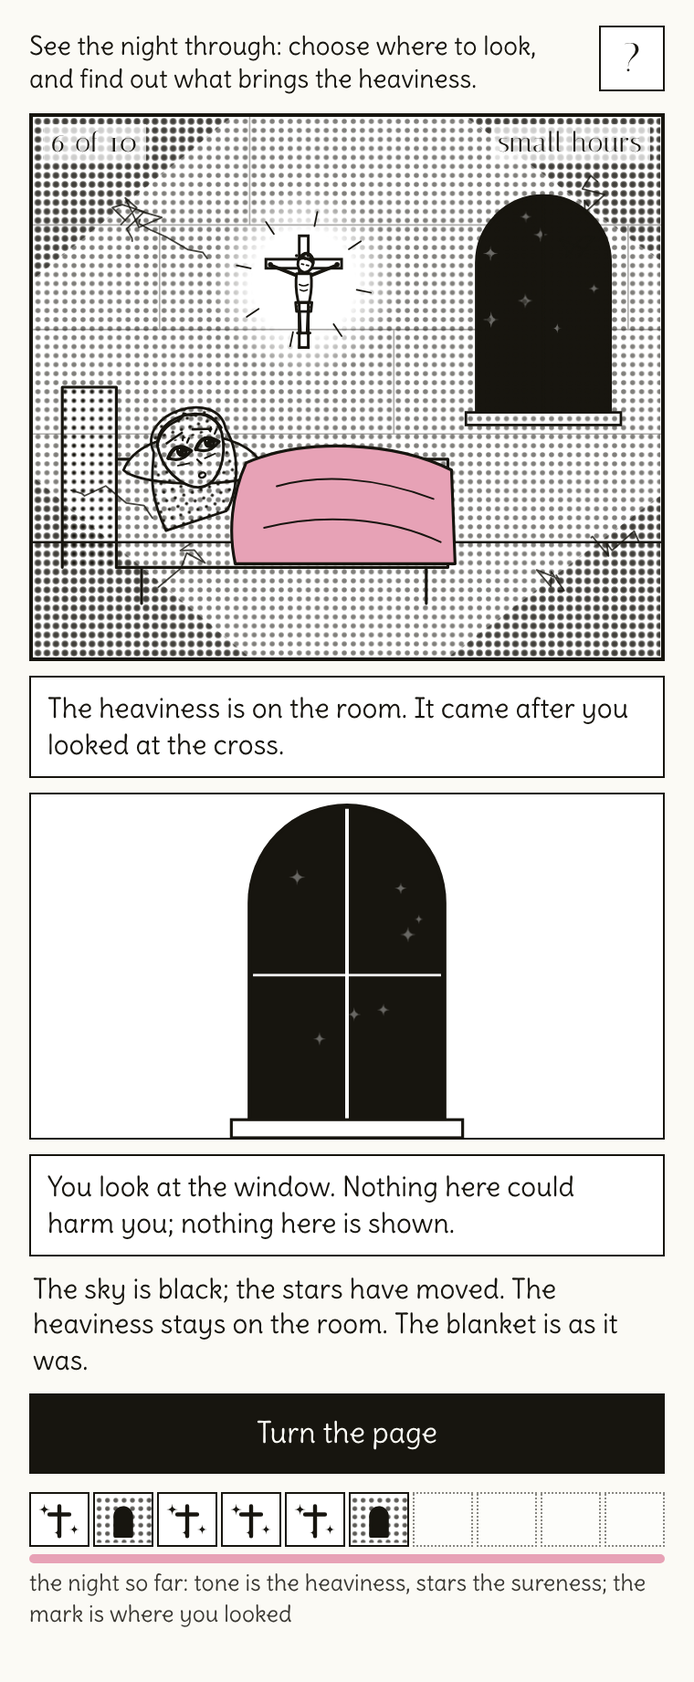
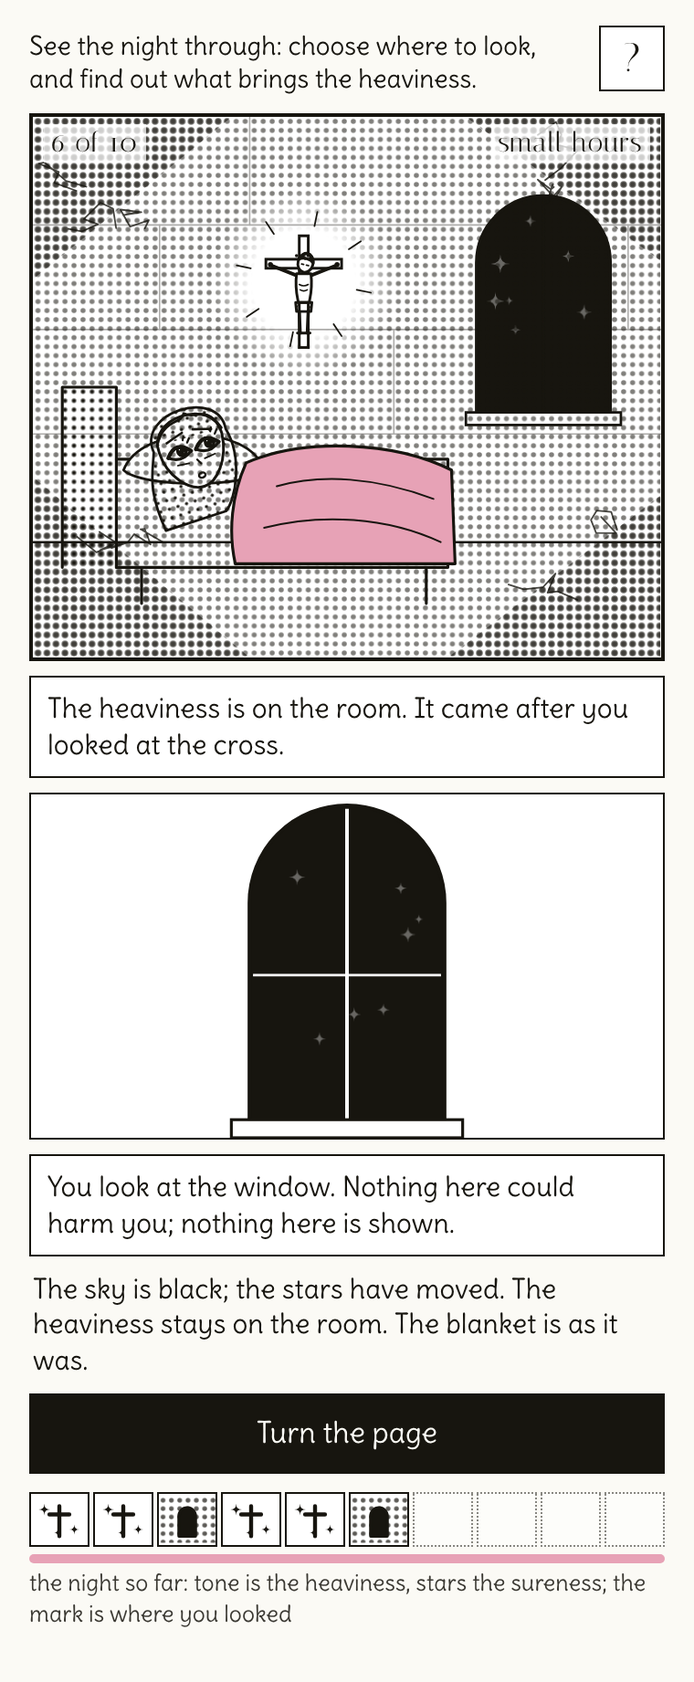
Julian's Window, revision 2: the heaviness named, the morning resolved, the cheer past the drying
The verdict's "It came after..." names the heaviness. Morning opens with "You did not die" (ch. iii, viii), which page one set up and the end never resolved. The change of cheer now needs the drying seen (ch. xxi, "unto the last point"), so the sights climb to the drying and the cheer is the turn past it, while the weather stays flat; "What that means" says in words that the heaviness has no climb and that this is the point. Calibration 34 checks; four scripted nights; memo §21.

Claude-Session: https://claude.ai/code/session_018niUhxL1598XkZ1naDgFgY

diff --git a/julian/julians-window.html b/julian/julians-window.html
@@ -130,6 +130,7 @@ h2 { font-family: 'Italiana', serif; font-weight: 400; font-size: 28px; line-hei
 <section id="end" class="screen">
   <h2 id="endTitle">Morning</h2>
   <p class="sub" id="nightNo"></p>
+  <p class="cap plain" id="vLived"></p>
   <div class="verd">
     <h3>What you did</h3><p class="cap plain" id="vDid"></p>
     <h3>What Julian says</h3><p class="cap plain" id="vSays"></p>
@@ -151,7 +152,7 @@ h2 { font-family: 'Italiana', serif; font-weight: 400; font-size: 28px; line-hei
   <p><b>See the night through. Each time, choose where to look — the cross, the window, or within — and find out what brings the heaviness.</b></p>
   <p>The picture is one room: your bed on the left with you in it under a rose blanket, a cross on the wall in front of you, a window on the right. The night has ten beats, one for each sight at the cross, so no night shows everything; the small label at the top right of the picture gives the hour, and the sky in the window changes with it.</p>
   <p><b>The weather.</b> Sometimes the room is light, with stars and petals over it: that is a sureness. Sometimes a heavy dot-tone lies over everything and scribbles creep in at the edges: that is the heaviness. The line under the picture says which it is now, and, when it has just changed, what you looked at just before. <b>The blanket</b> is how you are kept. It is the one thing in colour.</p>
-  <p><b>Looking.</b> Each beat, tap a place: the cross, the window, or you yourself (within), in the picture or on the three panels under it. Your eyes turn there and the panel says what looking there is. Then tap <b>Look</b>. <b>The cross</b> shows the next sight of the Passion; in the heaviness the same sight is hard to look at. <b>The window</b> shows the sky and nothing else; nothing there can harm you, and nothing is shown. <b>Within</b> asks a question and gets an answer, one per beat, in order; in the heaviness the first question is what brought it.</p>
+  <p><b>Looking.</b> Each beat, tap a place: the cross, the window, or you yourself (within), in the picture or on the three panels under it. Your eyes turn there and the panel says what looking there is. Then tap <b>Look</b>. <b>The cross</b> shows the next sight of the Passion, and the sights climb, to the drying and past it; in the heaviness the same sight is hard to look at. Only past the drying, when the heaviness goes while you are at the cross, does the cheer change. <b>The window</b> shows the sky and nothing else; nothing there can harm you, and nothing is shown. <b>Within</b> asks a question and gets an answer, one per beat, in order; in the heaviness the first question is what brought it.</p>
   <p><b>After a look</b> the game says in its own words what you did and what came of it, then His words in a round balloon and yours in a dashed one, then what the heaviness did and what that means. <b>Turn the page</b> starts the next beat. Nothing carries over: every beat starts with your eyes on nothing.</p>
   <p><b>The strip</b> along the bottom is the night so far: a small frame per beat, toned for the heaviness, starred for the sureness, with a mark for where you looked. The rose line under it is the blanket.</p>
   <p><b>Morning.</b> The strip is shown whole, and then three things in words: what you did, what Julian says, and what that means. There is no score. <b>Another night</b> draws a new night: the weather will come and go on a different schedule, and you can try the other ways of looking.</p>
@@ -165,7 +166,7 @@ h2 { font-family: 'Italiana', serif; font-weight: 400; font-size: 28px; line-hei
 <p>In the Seventh Shewing (ch. xv) Julian is filled with sureness, then "turned and left to myself in heaviness", then comforted, "now that one, and now that other, divers times — I suppose about twenty times". She checks the obvious cause and rules it out: "in this time I sinned not wherefore I should be left to myself"; "also I deserved not to have this blessed feeling." She concludes that the swing is given freely, that "He keepeth us even alike secure in woe and in weal", and that we should not "follow the feelings of pain in sorrow and mourning for them, but ... suddenly pass over." The game is that night: the heaviness comes and goes on a schedule drawn before your first look, it follows nothing you do, and the blanket is the same in every panel.</p>
 <p>Where she looks is her one act all night, and the sights are the text's, in its order: the garland bleeding (ch. iv), the drops like pellets, herring scales and rain off the eaves (vii), the face half covered and "seeking is as good as beholding" (x), the scourging (xii), the laugh (xiii), the drying and "I thirst" (xvi–xvii), "Look up to Heaven" and "Nay; I may not" (xix), the change of cheer with "no time between" (xxi), "Art thou well pleased?" (xxii), the side (xxiv), His mother (xxv), "It is I" (xxvi). Within: the hazelnut (v), "sin is no deed" (xi), "Is any pain like this?" (xvii), the check of the cause (xv), "It behoved that there should be sin; but all shall be well" (xxvii), "I have made well the most harm" (xxix), and the hidden part (xxx, xxxii).</p>
 <h3>Mechanism: a toy</h3>
-<p>The game runs a model built to illustrate the text's argument, not a model the text contains. <b>It demonstrates</b> that a night can be played in which the feeling swings on its own clock, follows nothing the player does, and leaves the keeping untouched; and that the sights can be reached in the text's order by looking. <b>It assumes</b> the toy: ten beats, one per sight at the cross, so that no night shows everything; the twenty swings of one shewing compressed to about five or six across the night, on a seeded random schedule with the first heaviness forced by the third beat; a window that carries "Look up to Heaven" and the hour; the horror "away from the Cross" (ch. iii) drawn as scribbles at the edges; a sight dreadful in heaviness and sweet in sureness where ch. vii says one sight was both at once; the change of cheer tied to being at the cross when the weather turns; the blanket for "He is our clothing" (ch. v); the questions asked when the player chooses rather than when He shows. <b>The text establishes</b> an argument from a vision, not a finding: that the swing was not caused by her sin, that the keeping is constant, that the right act is to pass over. Under this game's assumptions those three hold by construction; the game is a way of meeting them, not evidence for them.</p>
+<p>The game runs a model built to illustrate the text's argument, not a model the text contains. <b>It demonstrates</b> that a night can be played in which the feeling swings on its own clock, follows nothing the player does, and leaves the keeping untouched; and that the sights can be reached in the text's order by looking. <b>It assumes</b> the toy: ten beats, one per sight at the cross, so that no night shows everything; the twenty swings of one shewing compressed to about five or six across the night, on a seeded random schedule with the first heaviness forced by the third beat; a window that carries "Look up to Heaven" and the hour; the horror "away from the Cross" (ch. iii) drawn as scribbles at the edges; a sight dreadful in heaviness and sweet in sureness where ch. vii says one sight was both at once; the change of cheer tied to being at the cross when the weather turns, and only past the drying (ch. xxi); the morning's "you did not die" from ch. iii and viii, moved to the end of the night; the blanket for "He is our clothing" (ch. v); the questions asked when the player chooses rather than when He shows. <b>The text establishes</b> an argument from a vision, not a finding: that the swing was not caused by her sin, that the keeping is constant, that the right act is to pass over. Under this game's assumptions those three hold by construction; the game is a way of meeting them, not evidence for them.</p>
 <p>Every number and every line the game says sits in a config block at the top of <code>mechanism.js</code>, tagged with its chapter or marked as our choice. The weather is drawn from the night's number, shown on the morning page, so a night can be replayed.</p>
 <h3>Game built from this text</h3>
 <p>Julian of Norwich, <i>Revelations of Divine Love</i>, tr. Grace Warrack (London: Methuen, 1901), chapters i–xxxii. Game built from this text; the text is the authority where the two disagree. Her words appear in balloons as the text gives them, lightly shortened; the game's own voice is in the boxes. Steffen Huck, 2026, with Claude under the <a href="https://github.com/steffenhuck/paper-to-game">paper-to-game</a> skill. Type: Delius (Natalia Raices) and Italiana (Santiago Orozco), both under the SIL Open Font License.</p>
@@ -191,6 +192,7 @@ h2 { font-family: 'Italiana', serif; font-weight: 400; font-size: 28px; line-hei
     keeping: 1,         // ch. xv: "He keepeth us even alike secure in woe and in weal" — constant by construction, never read by the weather
     actsAffectWeather: 0, // ch. xv: "freely our Lord giveth when He will" — the schedule is drawn from the seed before the first look; 0 = no effect
     cheerNeedsCross: 1, // ch. xxi: "willingly abiding in the same Cross ... unto the last point, suddenly He shall change His Cheer" — our tie
+    cheerAfterDrying: 1, // ch. xxi: the cheer changes at the point of death, after the drying (ch. xvi–xvii, "the most pain, and the last"); before it a lift at the cross is only a lift
     profferAfterDrying: 1, // ch. xix: "Look up to Heaven" is offered while she beholds the drying (ch. xvi–xvii); our tie to the first dark after it
     hours: ['deep night', 'deep night', 'night', 'night', 'small hours', 'small hours', 'before dawn', 'before dawn', 'first light', 'morning'] // our choice: the window's clock; the text gives no hour in these chapters
   };
@@ -335,6 +337,8 @@ h2 { font-family: 'Italiana', serif; font-weight: 400; font-size: 28px; line-hei
     kept: 'The blanket never changed: "He keepeth us even alike secure in woe and in weal."',
     passover: 'And: "it is not God’s will that we follow the feelings of pain in sorrow and mourning for them, but that we suddenly pass over."',
     means: 'The dark that comes over you is not a message about you. Between the dark and the light there is no time. What you saw, you saw by staying; what you sought and did not see counted the same.',
+    climb: 'The heaviness had no climb: the last was no worse than the first, and it led nowhere. That is the point, not a fault of the night. What climbed was the sight at the cross, from the garland to the drying, and only past the drying does the cheer change.',
+    lived: 'You did not die. The pain went out of you all at once, as it had come, and you took it that the night was shown for those who live.',
     sentence: 'All shall be well, and all shall be well, and all manner of thing shall be well.',
     morningDark: 'The heaviness was on the room when the morning came. It is passing: "pain is passing and shall be brought to nought."'
   };
@@ -399,7 +403,7 @@ h2 { font-family: 'Italiana', serif; font-weight: 400; font-size: 28px; line-hei
       if (s.his) r.balloons.push({ who: 'his', text: s.his });
       if (s.hers) r.balloons.push({ who: 'hers', text: s.hers });
       if (state.profferOpen) { r.nay = true; r.caption = NAY.line + ' ' + r.caption; r.line = r.line + ' ' + NAY.after; r.balloons.unshift({ who: 'hers', text: NAY.hers }); state.proffered = true; }
-      if (CONFIG.cheerNeedsCross && !w && next === true) {
+      if (CONFIG.cheerNeedsCross && !w && next === true && (!CONFIG.cheerAfterDrying || state.dryingSeen)) {
         r.cheer = true; state.cheers++;
         var c = state.cheers === 1 ? CHEER : CHEER_AGAIN;
         r.cheerCaption = c.caption; r.balloons.push({ who: 'his', text: c.his }); if (c.hers) r.balloons.push({ who: 'hers', text: c.hers });
@@ -425,8 +429,8 @@ h2 { font-family: 'Italiana', serif; font-weight: 400; font-size: 28px; line-hei
 
   // ---- the verdict, in words ---------------------------------------------------------------------------------------
   var NUM = ['no', 'one', 'two', 'three', 'four', 'five', 'six', 'seven', 'eight', 'nine', 'ten', 'eleven', 'twelve', 'thirteen', 'fourteen', 'fifteen', 'sixteen'];
-  function times(n) { return n === 0 ? 'not once' : n === 2 ? 'twice' : NUM[n] + (n === 1 ? ' time' : ' times'); }
-  function places(obj) { return Object.keys(obj).map(function (p) { return WEATHER.after[p].replace('you looked at ', '').replace('you looked within', 'looking within') + ' ' + times(obj[p]); }); }
+  function times(n) { return n === 0 ? 'not once' : n === 1 ? 'once' : n === 2 ? 'twice' : NUM[n] + ' times'; }
+  function places(obj) { return Object.keys(obj).map(function (p) { return times(obj[p]) + ' ' + WEATHER.after[p].replace('you looked at ', '').replace('you looked within', 'looking within'); }); }
   function listNames(a) { if (!a.length) return 'nothing'; if (a.length === 1) return a[0]; return a.slice(0, -1).join(', ') + ' and ' + a[a.length - 1]; }
 
   function verdict(state) {
@@ -449,10 +453,14 @@ h2 { font-family: 'Italiana', serif; font-weight: 400; font-size: 28px; line-hei
     var did = 'The heaviness lay on the room ' + times(spells) + (spells !== darks ? ' (' + times(darks).replace(' times', ' beats').replace(' time', ' beat') + ' in all)' : '') + '. In it you stayed at the cross ' + times(stay) + ', went to the window ' + times(win) + ', and looked within ' + times(inn) + '.'
       + (seen.length ? ' At the cross you saw ' + listNames(seen) + (unseen.length ? '; you did not reach ' + listNames(unseen) : '') + '.' : ' At the cross you saw nothing; the ten sights went unseen.')
       + (asked.length ? ' Within, you asked ' + listNames(asked) + '.' : ' Within, you asked nothing.')
-      + (cheers ? ' The cheer changed for you ' + times(cheers) + ', with no time between.' : ' You were never at the cross when the heaviness went, so you never saw the cheer change.');
-    var says = (onsets.length ? 'It came ' + listNames(places(after)) + ': ' + (afterNames.length > 1 ? 'after everything, and so after nothing you did' : 'after one thing, as it would have come after any other') + '. ' : 'It was on the room from the start; nothing you did brought it. ')
+      + (cheers ? ' The cheer changed for you ' + times(cheers) + ', with no time between.' : (state.dryingSeen ? ' You were not at the cross when the heaviness went after the drying, so you never saw the cheer change.' : ' You never reached the drying, past which the cheer changes.'));
+    var onePlace = afterNames.length === 1 ? WEATHER.after[onsets[0]].replace('you looked at ', '').replace('you looked within', 'looking within') : '';
+    var says = (onsets.length === 0 ? 'The heaviness was on the room from the start; nothing you did brought it. '
+      : onsets.length === 1 ? 'The heaviness came once, ' + onePlace + '; it would have come after anything else. '
+      : afterNames.length === 1 ? 'The heaviness came ' + times(onsets.length) + ', each time ' + onePlace + '; after one thing, as it would have come after any other. '
+      : 'The heaviness came ' + times(onsets.length) + ': ' + listNames(places(after)) + '; after everything, and so after nothing you did. ')
       + VERDICT.checked + ' ' + VERDICT.kept + ' ' + VERDICT.passover;
-    return { did: did, says: says, means: VERDICT.means + (causeInDark ? '' : ' You never looked within for what brought it; Julian did, and found nothing.'), sentence: VERDICT.sentence,
+    return { did: did, says: says, means: VERDICT.means + (causeInDark ? '' : ' You never looked within for what brought it; Julian did, and found nothing.') + ' ' + VERDICT.climb, lived: VERDICT.lived, sentence: VERDICT.sentence,
              morning: w[n - 1] ? '' : VERDICT.morningDark, counts: { darks: darks, spells: spells, stay: stay, window: win, within: inn, cheers: cheers, onsets: onsets, lifts: lifts, seen: seen.length, asked: asked.length } };
   }
 
@@ -755,7 +763,7 @@ var Art = (function () {
     var v = J.verdict(state);
     $('nightNo').textContent = 'Night ' + state.seed + '. ' + (state.weather[J.CONFIG.beats - 1] ? 'The room is light.' : 'The heaviness is on the room.');
     $('recordGrid').innerHTML = state.record.map(function (r) { return '<div class="fr">' + Art.frame(r) + '</div>'; }).join('');
-    $('vDid').textContent = v.did; $('vSays').textContent = v.says; $('vMeans').textContent = v.means; $('vSentence').textContent = v.sentence;
+    $('vLived').textContent = v.lived; $('vDid').textContent = v.did; $('vSays').textContent = v.says; $('vMeans').textContent = v.means; $('vSentence').textContent = v.sentence;
     $('vMorning').style.display = v.morning ? '' : 'none'; $('vMorning').textContent = v.morning;
     show('end');
   }

diff --git a/julian/mechanism.js b/julian/mechanism.js
@@ -15,6 +15,7 @@
     keeping: 1,         // ch. xv: "He keepeth us even alike secure in woe and in weal" — constant by construction, never read by the weather
     actsAffectWeather: 0, // ch. xv: "freely our Lord giveth when He will" — the schedule is drawn from the seed before the first look; 0 = no effect
     cheerNeedsCross: 1, // ch. xxi: "willingly abiding in the same Cross ... unto the last point, suddenly He shall change His Cheer" — our tie
+    cheerAfterDrying: 1, // ch. xxi: the cheer changes at the point of death, after the drying (ch. xvi–xvii, "the most pain, and the last"); before it a lift at the cross is only a lift
     profferAfterDrying: 1, // ch. xix: "Look up to Heaven" is offered while she beholds the drying (ch. xvi–xvii); our tie to the first dark after it
     hours: ['deep night', 'deep night', 'night', 'night', 'small hours', 'small hours', 'before dawn', 'before dawn', 'first light', 'morning'] // our choice: the window's clock; the text gives no hour in these chapters
   };
@@ -159,6 +160,8 @@
     kept: 'The blanket never changed: "He keepeth us even alike secure in woe and in weal."',
     passover: 'And: "it is not God’s will that we follow the feelings of pain in sorrow and mourning for them, but that we suddenly pass over."',
     means: 'The dark that comes over you is not a message about you. Between the dark and the light there is no time. What you saw, you saw by staying; what you sought and did not see counted the same.',
+    climb: 'The heaviness had no climb: the last was no worse than the first, and it led nowhere. That is the point, not a fault of the night. What climbed was the sight at the cross, from the garland to the drying, and only past the drying does the cheer change.',
+    lived: 'You did not die. The pain went out of you all at once, as it had come, and you took it that the night was shown for those who live.',
     sentence: 'All shall be well, and all shall be well, and all manner of thing shall be well.',
     morningDark: 'The heaviness was on the room when the morning came. It is passing: "pain is passing and shall be brought to nought."'
   };
@@ -223,7 +226,7 @@
       if (s.his) r.balloons.push({ who: 'his', text: s.his });
       if (s.hers) r.balloons.push({ who: 'hers', text: s.hers });
       if (state.profferOpen) { r.nay = true; r.caption = NAY.line + ' ' + r.caption; r.line = r.line + ' ' + NAY.after; r.balloons.unshift({ who: 'hers', text: NAY.hers }); state.proffered = true; }
-      if (CONFIG.cheerNeedsCross && !w && next === true) {
+      if (CONFIG.cheerNeedsCross && !w && next === true && (!CONFIG.cheerAfterDrying || state.dryingSeen)) {
         r.cheer = true; state.cheers++;
         var c = state.cheers === 1 ? CHEER : CHEER_AGAIN;
         r.cheerCaption = c.caption; r.balloons.push({ who: 'his', text: c.his }); if (c.hers) r.balloons.push({ who: 'hers', text: c.hers });
@@ -249,8 +252,8 @@
 
   // ---- the verdict, in words ---------------------------------------------------------------------------------------
   var NUM = ['no', 'one', 'two', 'three', 'four', 'five', 'six', 'seven', 'eight', 'nine', 'ten', 'eleven', 'twelve', 'thirteen', 'fourteen', 'fifteen', 'sixteen'];
-  function times(n) { return n === 0 ? 'not once' : n === 2 ? 'twice' : NUM[n] + (n === 1 ? ' time' : ' times'); }
-  function places(obj) { return Object.keys(obj).map(function (p) { return WEATHER.after[p].replace('you looked at ', '').replace('you looked within', 'looking within') + ' ' + times(obj[p]); }); }
+  function times(n) { return n === 0 ? 'not once' : n === 1 ? 'once' : n === 2 ? 'twice' : NUM[n] + ' times'; }
+  function places(obj) { return Object.keys(obj).map(function (p) { return times(obj[p]) + ' ' + WEATHER.after[p].replace('you looked at ', '').replace('you looked within', 'looking within'); }); }
   function listNames(a) { if (!a.length) return 'nothing'; if (a.length === 1) return a[0]; return a.slice(0, -1).join(', ') + ' and ' + a[a.length - 1]; }
 
   function verdict(state) {
@@ -273,10 +276,14 @@
     var did = 'The heaviness lay on the room ' + times(spells) + (spells !== darks ? ' (' + times(darks).replace(' times', ' beats').replace(' time', ' beat') + ' in all)' : '') + '. In it you stayed at the cross ' + times(stay) + ', went to the window ' + times(win) + ', and looked within ' + times(inn) + '.'
       + (seen.length ? ' At the cross you saw ' + listNames(seen) + (unseen.length ? '; you did not reach ' + listNames(unseen) : '') + '.' : ' At the cross you saw nothing; the ten sights went unseen.')
       + (asked.length ? ' Within, you asked ' + listNames(asked) + '.' : ' Within, you asked nothing.')
-      + (cheers ? ' The cheer changed for you ' + times(cheers) + ', with no time between.' : ' You were never at the cross when the heaviness went, so you never saw the cheer change.');
-    var says = (onsets.length ? 'It came ' + listNames(places(after)) + ': ' + (afterNames.length > 1 ? 'after everything, and so after nothing you did' : 'after one thing, as it would have come after any other') + '. ' : 'It was on the room from the start; nothing you did brought it. ')
+      + (cheers ? ' The cheer changed for you ' + times(cheers) + ', with no time between.' : (state.dryingSeen ? ' You were not at the cross when the heaviness went after the drying, so you never saw the cheer change.' : ' You never reached the drying, past which the cheer changes.'));
+    var onePlace = afterNames.length === 1 ? WEATHER.after[onsets[0]].replace('you looked at ', '').replace('you looked within', 'looking within') : '';
+    var says = (onsets.length === 0 ? 'The heaviness was on the room from the start; nothing you did brought it. '
+      : onsets.length === 1 ? 'The heaviness came once, ' + onePlace + '; it would have come after anything else. '
+      : afterNames.length === 1 ? 'The heaviness came ' + times(onsets.length) + ', each time ' + onePlace + '; after one thing, as it would have come after any other. '
+      : 'The heaviness came ' + times(onsets.length) + ': ' + listNames(places(after)) + '; after everything, and so after nothing you did. ')
       + VERDICT.checked + ' ' + VERDICT.kept + ' ' + VERDICT.passover;
-    return { did: did, says: says, means: VERDICT.means + (causeInDark ? '' : ' You never looked within for what brought it; Julian did, and found nothing.'), sentence: VERDICT.sentence,
+    return { did: did, says: says, means: VERDICT.means + (causeInDark ? '' : ' You never looked within for what brought it; Julian did, and found nothing.') + ' ' + VERDICT.climb, lived: VERDICT.lived, sentence: VERDICT.sentence,
              morning: w[n - 1] ? '' : VERDICT.morningDark, counts: { darks: darks, spells: spells, stay: stay, window: win, within: inn, cheers: cheers, onsets: onsets, lifts: lifts, seen: seen.length, asked: asked.length } };
   }
 

diff --git a/julian/calibration.js b/julian/calibration.js
@@ -61,14 +61,16 @@ check('the cause is asked at most once a night and only as the first within-look
 }));
 check('the window never shows a sight and always names the sky and the blanket (ch. xix: "nothing betwixt the Cross and Heaven that might have harmed me")', play(3, POLICIES.window).record.every(function (r) { return r.sight === 'sky' && /sky/.test(r.line) && /blanket/.test(r.line); }));
 
-// 4. The change of cheer (ch. xxi): fires exactly when the player is at the cross in heaviness and the next beat is sureness; never otherwise.
-check('cheer fires iff at the cross, in heaviness, with sureness next', SEEDS.every(function (s) {
-  var st = play(s, POLICIES.random);
-  return st.record.every(function (r, t) { var should = r.place === 'cross' && !st.weather[t] && t + 1 < C.beats && st.weather[t + 1]; return r.cheer === should; });
+// 4. The change of cheer (ch. xxi): fires exactly when the player is at the cross in heaviness, the drying has been seen, and the next beat is sureness; never otherwise.
+check('cheer fires iff at the cross, in heaviness, past the drying, with sureness next', SEEDS.every(function (s) {
+  var st = play(s, POLICIES.random), dry = false;
+  return st.record.every(function (r, t) { if (r.sight === 'drying') dry = true; var should = r.place === 'cross' && !st.weather[t] && dry && t + 1 < C.beats && st.weather[t + 1]; return r.cheer === should; });
 }));
-check('a player who flees to the window in every dark never sees the cheer; one who stays sees it on every lift', SEEDS.slice(0, 100).every(function (s) {
-  return play(s, POLICIES.flee).record.every(function (r) { return !r.cheer; }) && (function () { var st = play(s, POLICIES.stay); var lifts = 0; for (var t = 1; t < C.beats; t++) if (st.weather[t] && !st.weather[t - 1]) lifts++; return st.record.filter(function (r) { return r.cheer; }).length === lifts; })();
+check('no cheer before the drying, on any night, under any policy', SEEDS.slice(0, 100).every(function (s) { return Object.keys(POLICIES).every(function (p) { var st = play(s, POLICIES[p]), dry = false; return st.record.every(function (r) { if (r.sight === 'drying') dry = true; return !r.cheer || dry; }); }); }));
+check('a player who flees to the window in every dark never sees the cheer; one at the cross all night sees it on every lift past the drying', SEEDS.slice(0, 100).every(function (s) {
+  return play(s, POLICIES.flee).record.every(function (r) { return !r.cheer; }) && (function () { var st = play(s, POLICIES.cross); var lifts = 0; for (var t = 1; t < C.beats; t++) if (st.weather[t] && !st.weather[t - 1] && t - 1 >= 5) lifts++; return st.record.filter(function (r) { return r.cheer; }).length === lifts; })();
 }));
+check('a player at the cross all night reaches the drying on beat 6 and sees the cheer on most nights', (function () { var k = 0; SEEDS.forEach(function (s) { var st = play(s, POLICIES.cross); if (st.record[5].sight === 'drying' && st.record.some(function (r) { return r.cheer; })) k++; }); return k / SEEDS.length >= 0.6; })());
 
 // 5. "Look up to Heaven" (ch. xix): offered once, in the first heaviness after the drying has been seen; the cross then answers "Nay".
 check('the proffer comes once, after the drying, in heaviness; taking the cross answers Nay, taking the window looks up', SEEDS.slice(0, 200).every(function (s) {
@@ -84,9 +86,10 @@ check('the proffer comes once, after the drying, in heaviness; taking the cross 
 
 // 6. The verdict is words, not a tally; it reads the record right on the boundary strategies.
 var vFlee = J.verdict(play(5, POLICIES.flee)), vStay = J.verdict(play(5, POLICIES.stay)), vJul = J.verdict(play(5, POLICIES.julian));
-check('verdict has no digits anywhere', [vFlee, vStay, vJul].every(function (v) { return !/\d/.test(v.did + v.says + v.means + v.sentence + v.morning); }));
-check('flee: never at the cross in the dark, no cheer', vFlee.counts.stay === 0 && vFlee.counts.cheers === 0 && /never at the cross when the heaviness went/.test(vFlee.did));
-check('stay: at the cross on every dark beat; cheer on every lift', vStay.counts.stay === vStay.counts.darks && vStay.counts.cheers === vStay.counts.lifts.length);
+check('verdict has no digits anywhere', [vFlee, vStay, vJul].every(function (v) { return !/\d/.test(v.did + v.says + v.means + v.sentence + v.morning + v.lived); }));
+check('the verdict names the heaviness, says she lived, and says the heaviness had no climb', [vFlee, vStay, vJul].every(function (v) { return /^The heaviness/.test(v.says) && /did not die/.test(v.lived) && /no climb/.test(v.means); }));
+check('flee: never at the cross in the dark, no cheer', vFlee.counts.stay === 0 && vFlee.counts.cheers === 0 && /never saw the cheer change|never reached the drying/.test(vFlee.did));
+check('stay: at the cross on every dark beat', vStay.counts.stay === vStay.counts.darks);
 check('julian: the cause was checked once, in the dark; the verdict does not scold', vJul.counts.within === 1 && !/never looked within/.test(vJul.means));
 check('the verdict ends with her sentence (ch. xxvii)', vJul.sentence === 'All shall be well, and all shall be well, and all manner of thing shall be well.');
 check('the onsets named in the verdict are the places looked at just before each heaviness', SEEDS.slice(0, 100).every(function (s) {

diff --git a/julian/about.html b/julian/about.html
@@ -3,7 +3,7 @@
 <p>In the Seventh Shewing (ch. xv) Julian is filled with sureness, then "turned and left to myself in heaviness", then comforted, "now that one, and now that other, divers times — I suppose about twenty times". She checks the obvious cause and rules it out: "in this time I sinned not wherefore I should be left to myself"; "also I deserved not to have this blessed feeling." She concludes that the swing is given freely, that "He keepeth us even alike secure in woe and in weal", and that we should not "follow the feelings of pain in sorrow and mourning for them, but ... suddenly pass over." The game is that night: the heaviness comes and goes on a schedule drawn before your first look, it follows nothing you do, and the blanket is the same in every panel.</p>
 <p>Where she looks is her one act all night, and the sights are the text's, in its order: the garland bleeding (ch. iv), the drops like pellets, herring scales and rain off the eaves (vii), the face half covered and "seeking is as good as beholding" (x), the scourging (xii), the laugh (xiii), the drying and "I thirst" (xvi–xvii), "Look up to Heaven" and "Nay; I may not" (xix), the change of cheer with "no time between" (xxi), "Art thou well pleased?" (xxii), the side (xxiv), His mother (xxv), "It is I" (xxvi). Within: the hazelnut (v), "sin is no deed" (xi), "Is any pain like this?" (xvii), the check of the cause (xv), "It behoved that there should be sin; but all shall be well" (xxvii), "I have made well the most harm" (xxix), and the hidden part (xxx, xxxii).</p>
 <h3>Mechanism: a toy</h3>
-<p>The game runs a model built to illustrate the text's argument, not a model the text contains. <b>It demonstrates</b> that a night can be played in which the feeling swings on its own clock, follows nothing the player does, and leaves the keeping untouched; and that the sights can be reached in the text's order by looking. <b>It assumes</b> the toy: ten beats, one per sight at the cross, so that no night shows everything; the twenty swings of one shewing compressed to about five or six across the night, on a seeded random schedule with the first heaviness forced by the third beat; a window that carries "Look up to Heaven" and the hour; the horror "away from the Cross" (ch. iii) drawn as scribbles at the edges; a sight dreadful in heaviness and sweet in sureness where ch. vii says one sight was both at once; the change of cheer tied to being at the cross when the weather turns; the blanket for "He is our clothing" (ch. v); the questions asked when the player chooses rather than when He shows. <b>The text establishes</b> an argument from a vision, not a finding: that the swing was not caused by her sin, that the keeping is constant, that the right act is to pass over. Under this game's assumptions those three hold by construction; the game is a way of meeting them, not evidence for them.</p>
+<p>The game runs a model built to illustrate the text's argument, not a model the text contains. <b>It demonstrates</b> that a night can be played in which the feeling swings on its own clock, follows nothing the player does, and leaves the keeping untouched; and that the sights can be reached in the text's order by looking. <b>It assumes</b> the toy: ten beats, one per sight at the cross, so that no night shows everything; the twenty swings of one shewing compressed to about five or six across the night, on a seeded random schedule with the first heaviness forced by the third beat; a window that carries "Look up to Heaven" and the hour; the horror "away from the Cross" (ch. iii) drawn as scribbles at the edges; a sight dreadful in heaviness and sweet in sureness where ch. vii says one sight was both at once; the change of cheer tied to being at the cross when the weather turns, and only past the drying (ch. xxi); the morning's "you did not die" from ch. iii and viii, moved to the end of the night; the blanket for "He is our clothing" (ch. v); the questions asked when the player chooses rather than when He shows. <b>The text establishes</b> an argument from a vision, not a finding: that the swing was not caused by her sin, that the keeping is constant, that the right act is to pass over. Under this game's assumptions those three hold by construction; the game is a way of meeting them, not evidence for them.</p>
 <p>Every number and every line the game says sits in a config block at the top of <code>mechanism.js</code>, tagged with its chapter or marked as our choice. The weather is drawn from the night's number, shown on the morning page, so a night can be replayed.</p>
 <h3>Game built from this text</h3>
 <p>Julian of Norwich, <i>Revelations of Divine Love</i>, tr. Grace Warrack (London: Methuen, 1901), chapters i–xxxii. Game built from this text; the text is the authority where the two disagree. Her words appear in balloons as the text gives them, lightly shortened; the game's own voice is in the boxes. Steffen Huck, 2026, with Claude under the <a href="https://github.com/steffenhuck/paper-to-game">paper-to-game</a> skill. Type: Delius (Natalia Raices) and Italiana (Santiago Orozco), both under the SIL Open Font License.</p>

diff --git a/julian/template.html b/julian/template.html
@@ -130,6 +130,7 @@ h2 { font-family: 'Italiana', serif; font-weight: 400; font-size: 28px; line-hei
 <section id="end" class="screen">
   <h2 id="endTitle">Morning</h2>
   <p class="sub" id="nightNo"></p>
+  <p class="cap plain" id="vLived"></p>
   <div class="verd">
     <h3>What you did</h3><p class="cap plain" id="vDid"></p>
     <h3>What Julian says</h3><p class="cap plain" id="vSays"></p>
@@ -151,7 +152,7 @@ h2 { font-family: 'Italiana', serif; font-weight: 400; font-size: 28px; line-hei
   <p><b>See the night through. Each time, choose where to look — the cross, the window, or within — and find out what brings the heaviness.</b></p>
   <p>The picture is one room: your bed on the left with you in it under a rose blanket, a cross on the wall in front of you, a window on the right. The night has ten beats, one for each sight at the cross, so no night shows everything; the small label at the top right of the picture gives the hour, and the sky in the window changes with it.</p>
   <p><b>The weather.</b> Sometimes the room is light, with stars and petals over it: that is a sureness. Sometimes a heavy dot-tone lies over everything and scribbles creep in at the edges: that is the heaviness. The line under the picture says which it is now, and, when it has just changed, what you looked at just before. <b>The blanket</b> is how you are kept. It is the one thing in colour.</p>
-  <p><b>Looking.</b> Each beat, tap a place: the cross, the window, or you yourself (within), in the picture or on the three panels under it. Your eyes turn there and the panel says what looking there is. Then tap <b>Look</b>. <b>The cross</b> shows the next sight of the Passion; in the heaviness the same sight is hard to look at. <b>The window</b> shows the sky and nothing else; nothing there can harm you, and nothing is shown. <b>Within</b> asks a question and gets an answer, one per beat, in order; in the heaviness the first question is what brought it.</p>
+  <p><b>Looking.</b> Each beat, tap a place: the cross, the window, or you yourself (within), in the picture or on the three panels under it. Your eyes turn there and the panel says what looking there is. Then tap <b>Look</b>. <b>The cross</b> shows the next sight of the Passion, and the sights climb, to the drying and past it; in the heaviness the same sight is hard to look at. Only past the drying, when the heaviness goes while you are at the cross, does the cheer change. <b>The window</b> shows the sky and nothing else; nothing there can harm you, and nothing is shown. <b>Within</b> asks a question and gets an answer, one per beat, in order; in the heaviness the first question is what brought it.</p>
   <p><b>After a look</b> the game says in its own words what you did and what came of it, then His words in a round balloon and yours in a dashed one, then what the heaviness did and what that means. <b>Turn the page</b> starts the next beat. Nothing carries over: every beat starts with your eyes on nothing.</p>
   <p><b>The strip</b> along the bottom is the night so far: a small frame per beat, toned for the heaviness, starred for the sureness, with a mark for where you looked. The rose line under it is the blanket.</p>
   <p><b>Morning.</b> The strip is shown whole, and then three things in words: what you did, what Julian says, and what that means. There is no score. <b>Another night</b> draws a new night: the weather will come and go on a different schedule, and you can try the other ways of looking.</p>

diff --git a/julian/page.js b/julian/page.js
@@ -73,7 +73,7 @@
     var v = J.verdict(state);
     $('nightNo').textContent = 'Night ' + state.seed + '. ' + (state.weather[J.CONFIG.beats - 1] ? 'The room is light.' : 'The heaviness is on the room.');
     $('recordGrid').innerHTML = state.record.map(function (r) { return '<div class="fr">' + Art.frame(r) + '</div>'; }).join('');
-    $('vDid').textContent = v.did; $('vSays').textContent = v.says; $('vMeans').textContent = v.means; $('vSentence').textContent = v.sentence;
+    $('vLived').textContent = v.lived; $('vDid').textContent = v.did; $('vSays').textContent = v.says; $('vMeans').textContent = v.means; $('vSentence').textContent = v.sentence;
     $('vMorning').style.display = v.morning ? '' : 'none'; $('vMorning').textContent = v.morning;
     show('end');
   }

diff --git a/julian/author-note.md b/julian/author-note.md
@@ -1,7 +1,7 @@
 # Julian's Window — note for the author
 
-1. Look first at `screenshot-a-beat2-result.png` (the first heaviness: the page under dot-tone, scribbles at the edges, the blanket and the cross's own light spared, and her check of the cause: an empty hand), then a dark beat at the cross where the cheer changes with no time between (the room already in stars while the sight is still the dry face; `screenshot-a-beat6-result.png` or `screenshot-a-beat8-result.png` on night 7), `screenshot-a-beat8-selected.png` ("look up" offered from the window), and `screenshot-a-end.png` (the verdict in words, then the night as sixteen frames with the rose line under them). Then play it once on a phone, with your thumb: the stay-or-go decision in the dark is the game.
+1. Look first at `screenshot-a-beat2-result.png` (the first heaviness: the page under dot-tone, scribbles at the edges, the blanket and the cross's own light spared, and her check of the cause: an empty hand), then a dark beat at the cross where the cheer changes with no time between (the room already in stars while the sight is still the dry face; `screenshot-a-beat6-result.png` or `screenshot-a-beat8-result.png` on night 7), `screenshot-a-beat8-selected.png` ("look up" offered from the window), and `screenshot-a-end.png` (the verdict in words, then the night as ten frames with the rose line under them). Then play it once on a phone, with your thumb: the stay-or-go decision in the dark is the game.
 2. Everything tunable is in `CONFIG` at the top of `mechanism.js`, the only copy of the mechanism: the text's numbers (the twenty swings of ch. xv, the sureness first), each tagged with its chapter; and everything ours (ten beats, the turn probability, the first heaviness forced by beat three, the longest run, the hours at the window, the ties of the cheer and the proffer). Every line the game says is in the same file (`CROSS`, `WITHIN`, `WINDOW`, `WEATHER`, `VERDICT`), tagged by chapter; the drawings are in `art.js`. Edit, run `node calibration.js` (30 checks: the schedule's shape over 400 seeds, independence of the weather from every way of playing and under four alternative settings, the sights' order, the cheer and the proffer, the verdict), then `python3 build.py`, which refuses to build if the embedded mechanism differs from the file. The text is typeset (CCEL's edition of Warrack), not scanned; chapter numbers are Warrack's.
-3. What we were least sure about: (a) the weather as a seeded random process, where the text says only "freely" and "when He will", and its compression from about twenty swings in one shewing to about five or six across a night of ten beats; (b) the window, which the text does not have: it carries "Look up to Heaven" (ch. xix) and the hour, both ours; (c) a sight "dreadful" in heaviness and "sweet" in sureness, where ch. vii says one sight was "horrifying and dreadful, sweet and lovely" at once; (d) the change of cheer tied to being at the cross when the weather turns (ch. xxi says "willingly abiding in the same Cross ... unto the last point"; the tie to a beat is ours); (e) her words in the balloons are the text's, lightly shortened, which the skill's rule against quoting was bent for: a manga puts its text in balloons, and these lines are the text; (f) the drawings are ours, in a shōjo manner, not from any edition.
+3. What we were least sure about: (a) the weather as a seeded random process, where the text says only "freely" and "when He will", and its compression from about twenty swings in one shewing to about five or six across a night of ten beats; (b) the window, which the text does not have: it carries "Look up to Heaven" (ch. xix) and the hour, both ours; (c) a sight "dreadful" in heaviness and "sweet" in sureness, where ch. vii says one sight was "horrifying and dreadful, sweet and lovely" at once; (d) the change of cheer tied to being at the cross when the weather turns, and only once the drying has been seen (ch. xxi says "willingly abiding in the same Cross ... unto the last point"; the tie to a beat is ours); (d′) the morning line that she did not die, which compresses ch. iii (the pain leaving all at once, before the first shewing) and ch. viii ("shewed for them that should live") into the end of the night; (e) her words in the balloons are the text's, lightly shortened, which the skill's rule against quoting was bent for: a manga puts its text in balloons, and these lines are the text; (f) the drawings are ours, in a shōjo manner, not from any edition.
 
 This game has had the builder's review only: screenshots and scripted browser sessions at 380 px. It has not been played by real strangers, and its length (about three to four minutes for a night) is an estimate.

diff --git a/julian/memo.md b/julian/memo.md
@@ -172,3 +172,7 @@ The dark beats are the same for everyone: that column is the discovery. The stra
 Played, the sixteen-beat night felt repetitive: three places, the same chooser, and from about the tenth beat the cross queue (ten sights) and the within queue (seven questions) were exhausted, so the last beats were "seeking" and "rest", the dullest panels. The alternatives were a fourth place to look or a shorter night. A fourth place (the dark at the edges, with the laugh at the Fiend, ch. xiii, was the candidate) would have added a queue that also runs dry and diluted the stay-or-go decision in the dark. Cut instead, to **ten beats, one per sight at the cross**: the filler goes; a cross-only player sees exactly the ten sights and nobody else can, so a dark beat at the window now costs a sight; and the strip has room on a phone. Not seven: with the first heaviness by beat three, seven beats bring the heaviness about twice, and the superstition needs three arrivals to form and fail. To keep three arrivals in ten beats the turn probability rises from 0.5 to 0.6 and the longest run falls from 4 to 3 (truer to "about twenty times"); the calibration now also checks that the heaviness arrives at least twice on 95 % of nights and three times on most. The sixteen of ch. i was only ever a count and is gone from the config; the record page is two rows of five. Robustness re-run at 0.4 / 0.8 / longest run 4 / first dark by beat 2.
 
 Playing it in numbers at ten beats, over 400 nights (means): dark beats 4.7 for everyone; the cross all night sees 10 sights and 2.7 cheers; flee (the window in every dark) sees 5.3 sights and no cheer, where at sixteen beats it saw 8.3; Julian's own way sees 9 sights, checks the cause once, and 2.1 cheers; random sees 3.4 sights and asks 3.2 questions. `session-test.js` re-run: four nights, help from beat 5, no errors, 30 screenshots. 31 checks pass.
+
+## 21. Revision 2: the subject, the morning, and the climb (Steffen's questions, 6 Nov 2026)
+
+Three questions after playing. (1) *"It came after looking within one time…" — what is it? death?* A bare pronoun across a section break: "What you did" ends on the heaviness, "What Julian says" opened with "It". Now: "The heaviness came three times: once after …". (2) *On my last play I didn't die; did something slip?* No: she did not die either. Ch. iii: "suddenly all my pain was taken from me"; ch. viii: "I thought to have died … methought this Vision was shewed for them that should live." The game set up the dying on page one and never resolved it. Morning now opens: "You did not die. The pain went out of you all at once, as it had come, and you took it that the night was shown for those who live." The compression (ch. iii's healing comes before the first shewing, not at dawn) is declared in About and the author note. (3) *No Zuspitzung — is that the lesson, and should the debrief say so?* The heaviness has no climb, and that is the text's point (ch. xv: "pain is passing"); the verdict's "What that means" now says so in words, so the flatness reads as the lesson and not as a fault. But the text does climb, at the cross: the sights go from the garland to the drying ("the most pain, and the last", ch. xvii), and only there, "unto the last point", does the cheer change (ch. xxi: "I looked for the departing with all my might, and thought to have seen the body all dead … suddenly He changed His blessed Countenance"). The first build let the cheer fire on any lift at the cross, so it could come on beat two for nothing. Now `CONFIG.cheerAfterDrying`: before the drying, a lift at the cross is only a lift; past it, the cheer. That gives the one who stays an arc — the sights worsen to the drying, "look up" is offered at the bottom, the turn past it is the cheer — while the weather stays flat. The cost: a player must spend six of ten looks at the cross to reach the drying; the calibration checks that a cross-only player reaches it on beat 6 and sees the cheer on most nights, and that no cheer ever fires before it. Help says the sights climb and where the cheer is.
